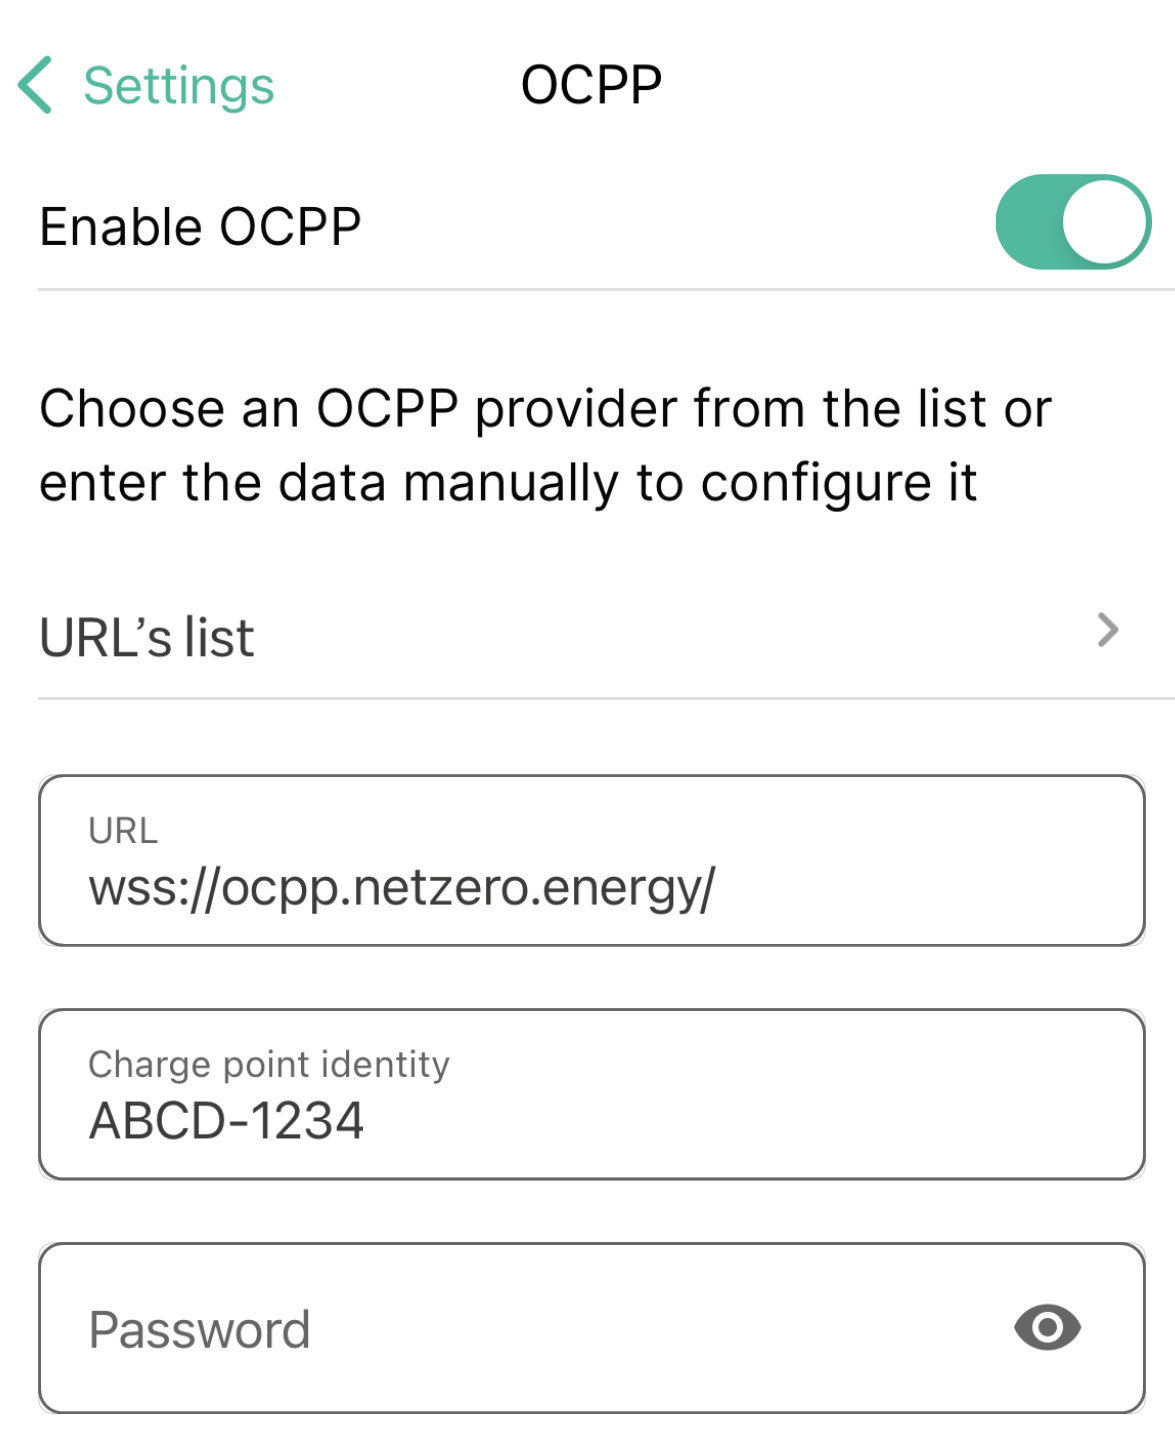
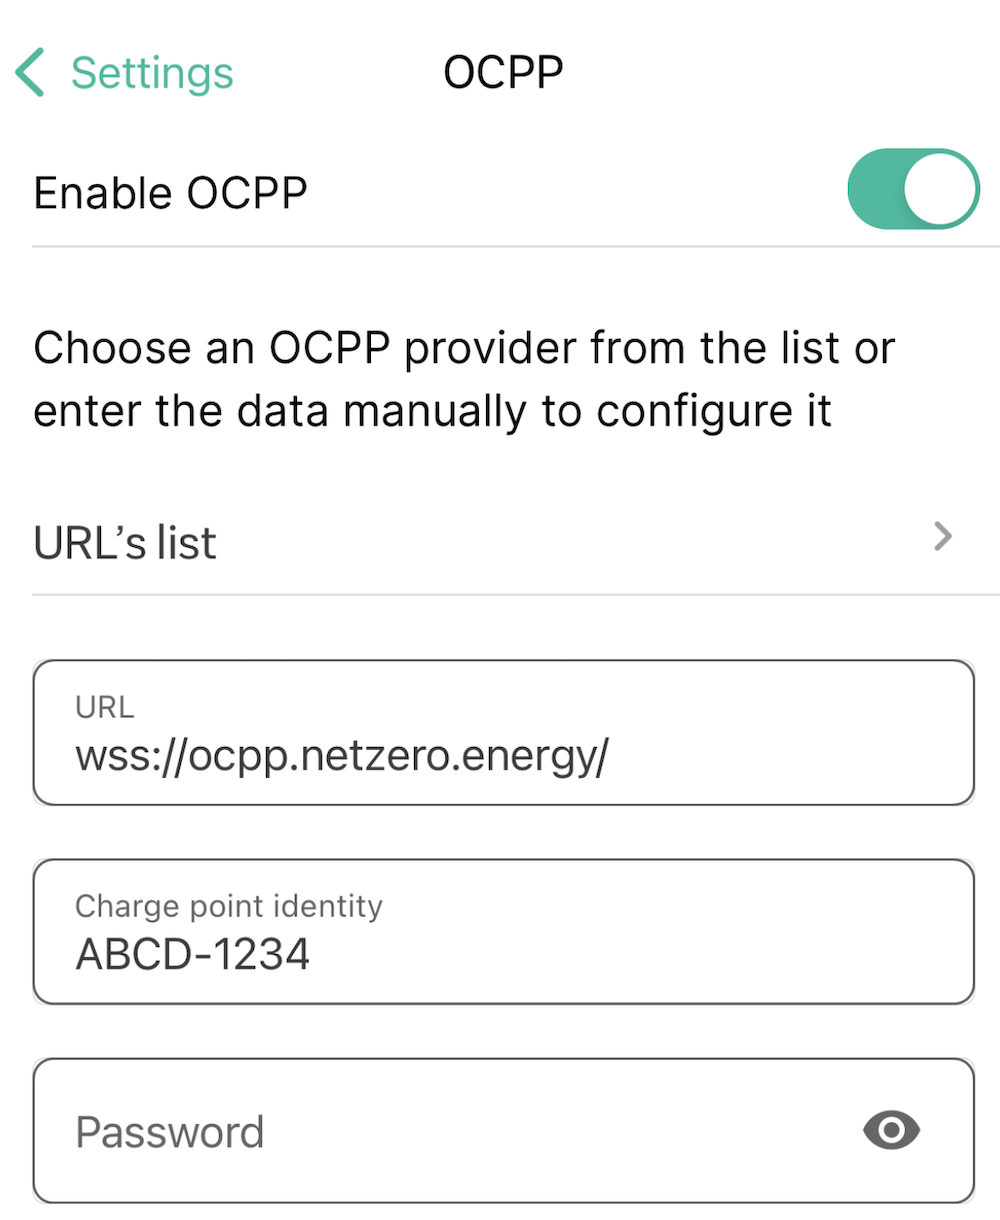
OCPP screenshot tweaks

Changed region(s): [[0.589, 0.2803, 0.62, 0.3115]]

diff --git a/docs/ev_charging/Settings.md b/docs/ev_charging/Settings.md
@@ -94,9 +94,12 @@ No password is required.
 
 Here are example configuration screens for **Wallbox** and **myenergi zappi** (replace the ABCD-1234 part):
 
-<img src="ocpp-wallbox.png" width="300" alt="Wallbox OCPP Configuration" />
-
-<img src="ocpp-zappi.png" width="300" alt="zappi OCPP Configuration" />
+<table>
+  <tr>
+    <td><img src="ocpp-wallbox.png" width="250" alt="Wallbox OCPP Configuration" /></td>
+    <td><img src="ocpp-zappi.png" width="250" alt="zappi OCPP Configuration" /></td>
+  </tr>
+</table>
 
 
 ### Notes
